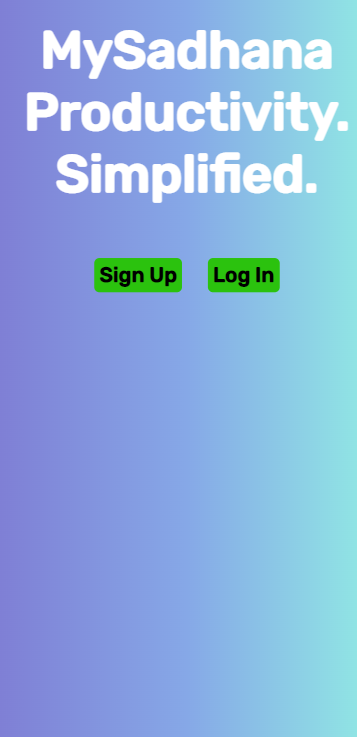
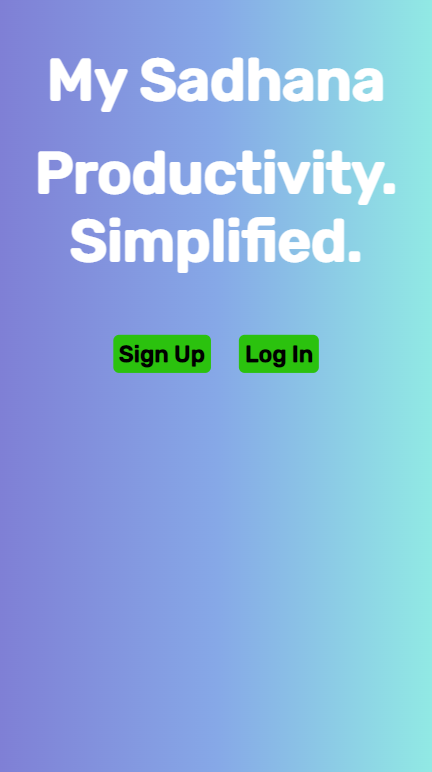
Add files via upload

Changed region(s): [[0.0616, 0.0312, 0.986, 0.4993]]

diff --git a/index.html b/index.html
@@ -38,11 +38,8 @@
     <div id="splash-screen" class="screen gradient center deactivate">
       <!-- Header -->
       <div class="header padding">
-        <!-- Image Header -->
-        <div class="padding"> 
-          <!-- Image Logo --> 
-          <image  src="/src/Images/medium_icon.png"></image> 
-        </div>
+        <!-- Header -->
+        <div class="padding"> My Sadhana </div>
 
         <!-- Motto -->
         <div> Productivity. </div>
